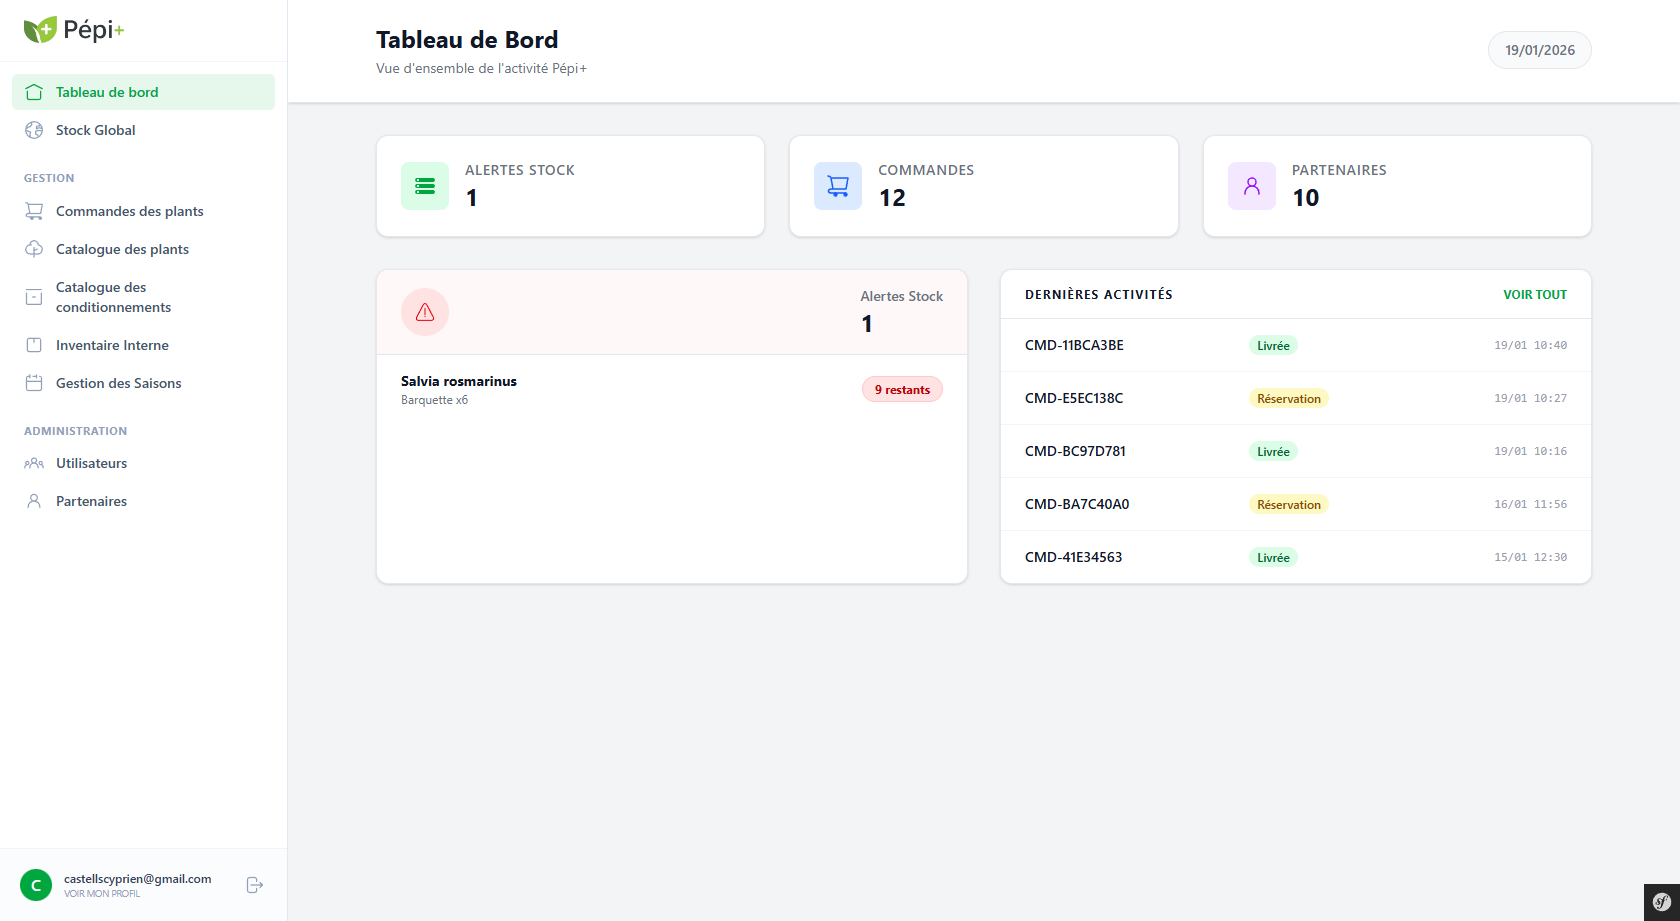
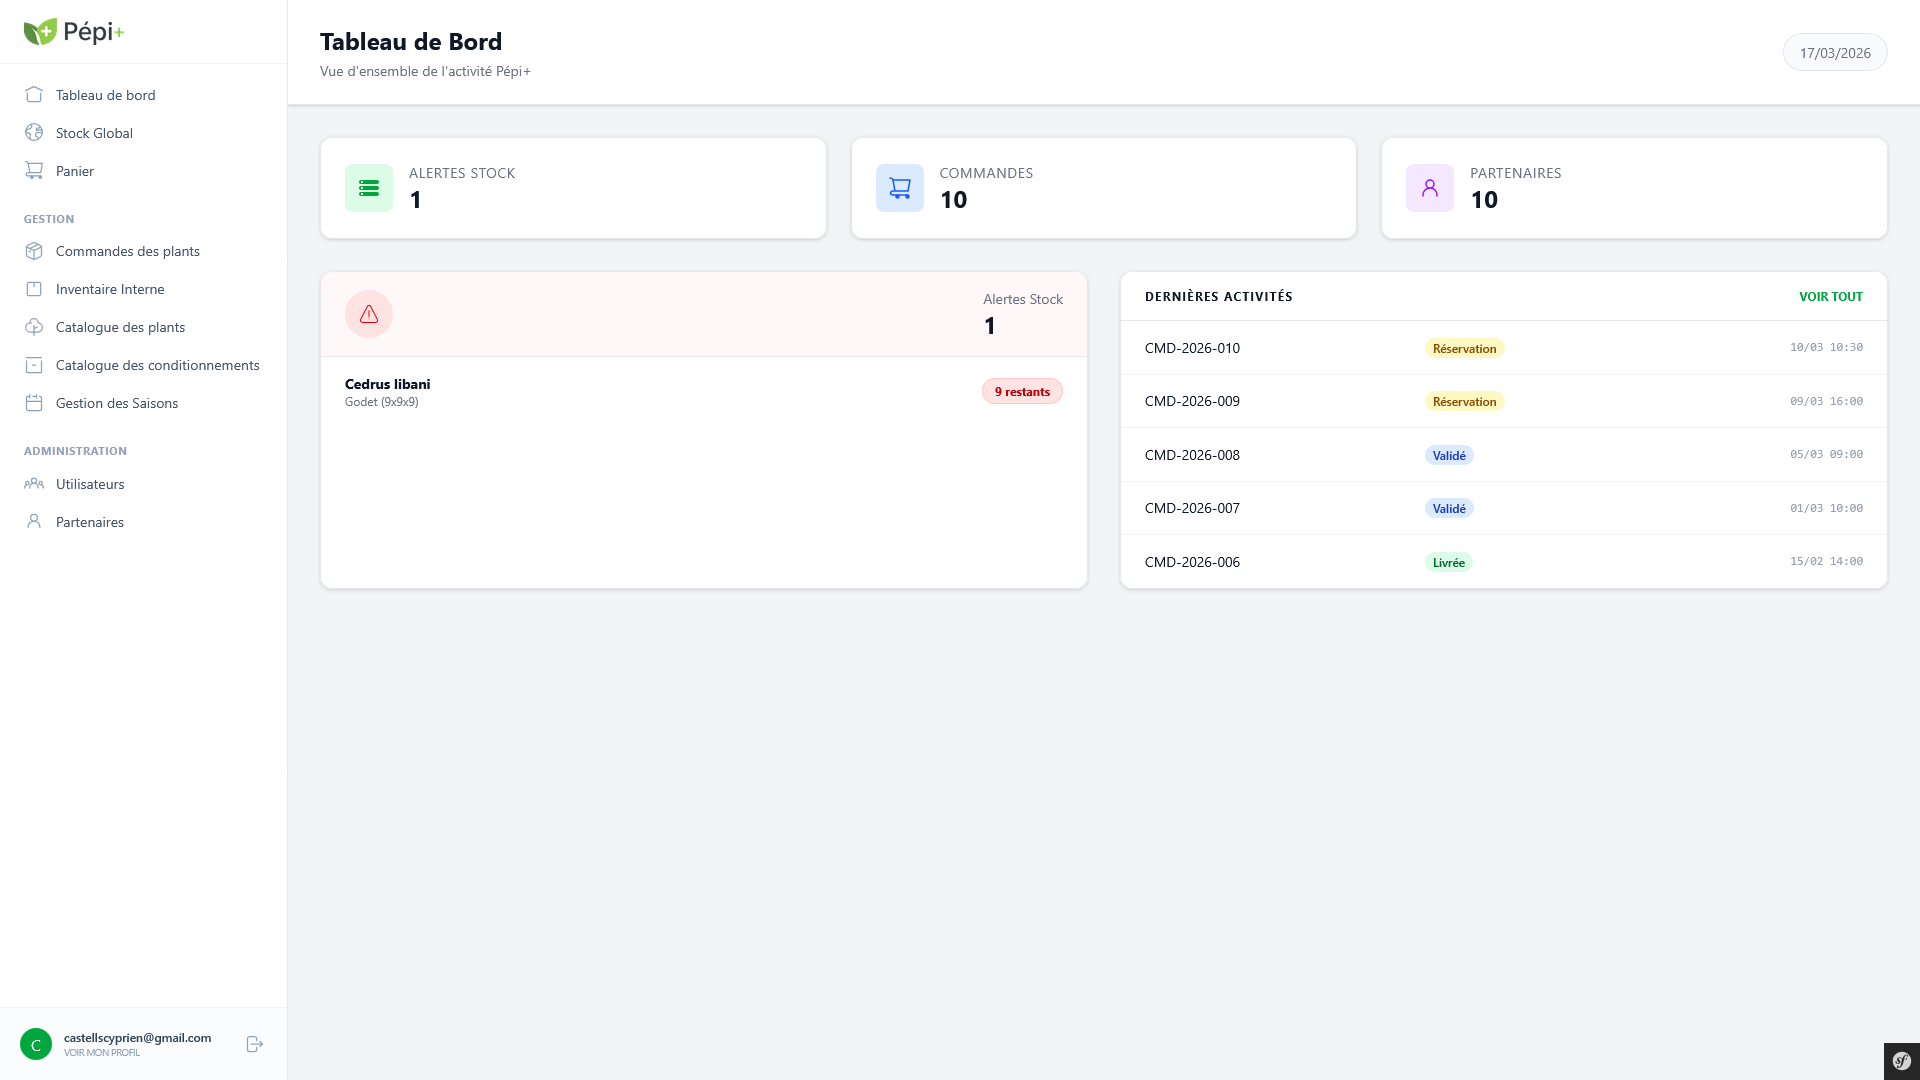
Mise a jour readme

diff --git a/README.md b/README.md
@@ -44,6 +44,11 @@ Pépi+ est une application web complète permettant aux pépiniéristes de gére
 ### Gestion du stock global
 ![Stock](public/img/stock.png)
 
+### Gestion des commandes
+![Stock](public/img/order.png)
+
+### Gestion des users
+![Stock](public/img/users.png)
 </div>
 
 ---
